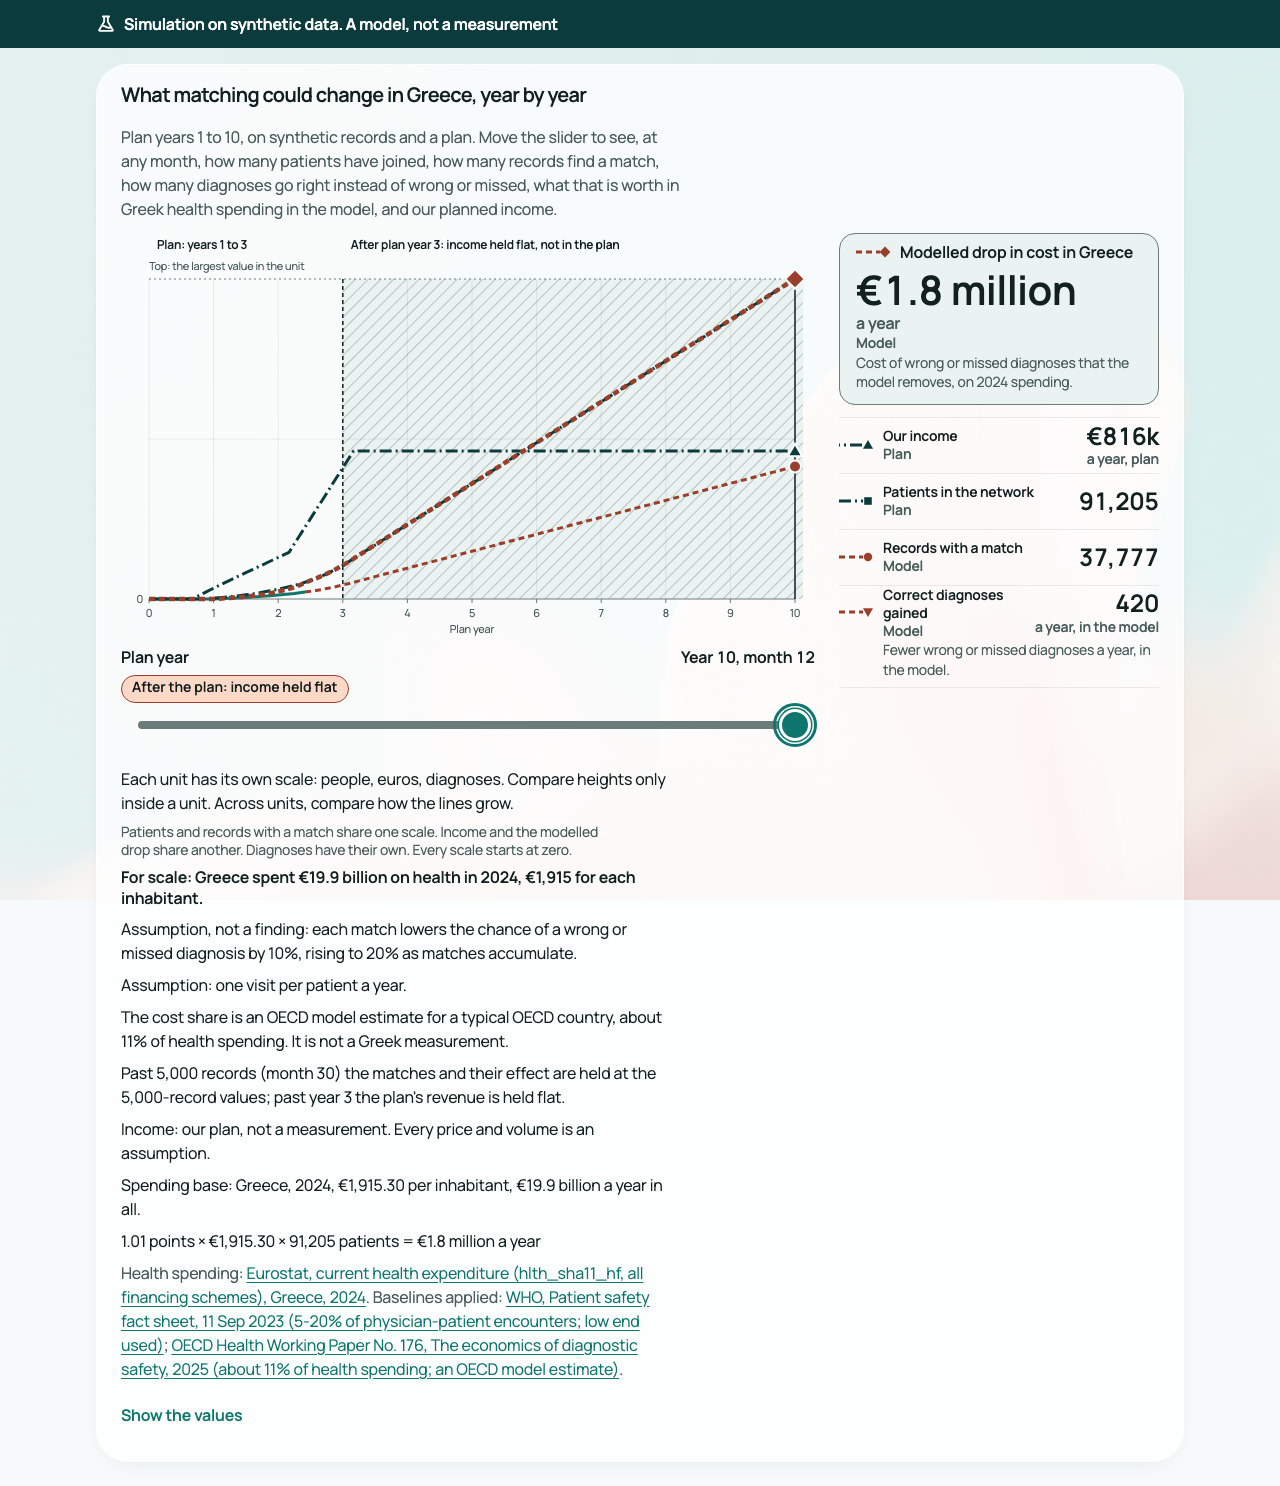
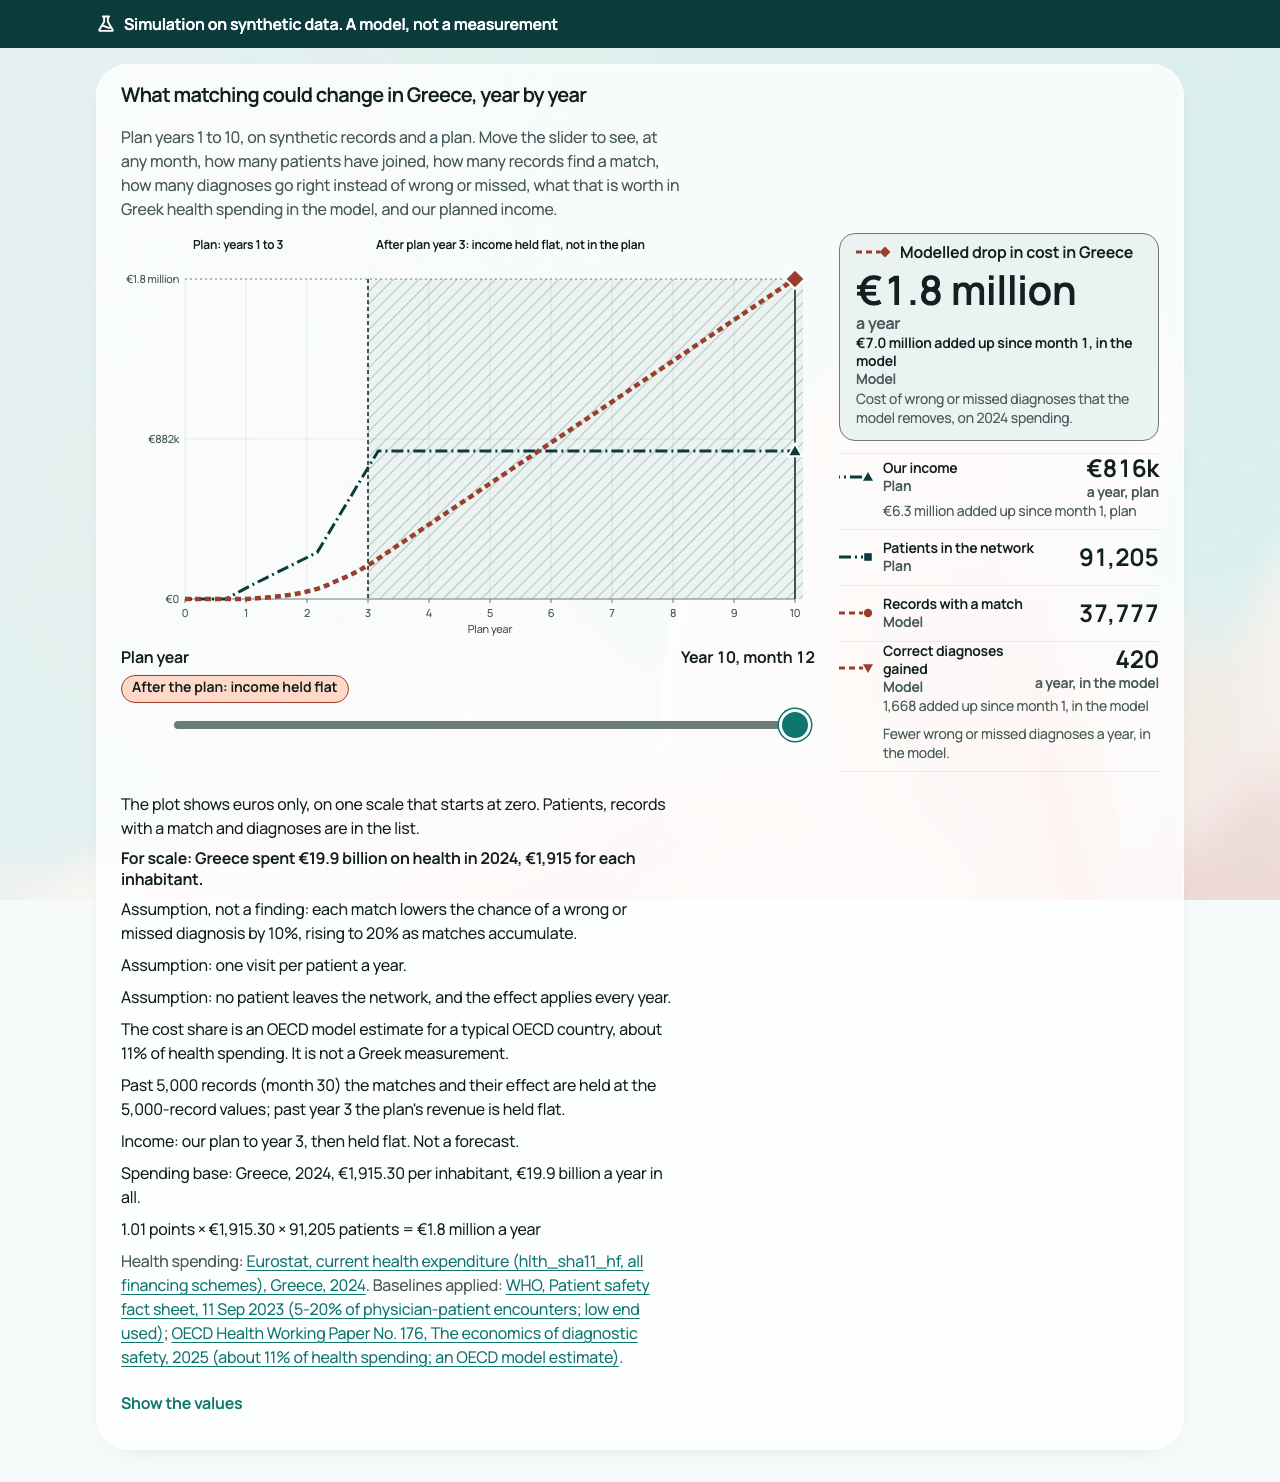
fix(sim): totals under the yearly figures, CEO seat's assumption lines, no bare "saved", euro plot (MIN-4749) [Lane B]
CTO fixes A, B, C, E from MIN-4744 comment 1a8014d4. Contributes to MIN-4749 (CTO re-check follows; Cron does D).
Specs touched and run: src/features/matches/simDiagram.test.ts (updated pin, new totals and copy tests).

diff --git a/src/features/matches/simDiagram.test.ts b/src/features/matches/simDiagram.test.ts
@@ -14,7 +14,7 @@ import { COPY } from './copy';
 import { SimDiagram } from './SimDiagram';
 import { SimulationUnavailable, SimulationView } from './Simulation';
 import {
-  DIAGRAM, LINES, afterPlan, kindAt, lineValues, monthInYear, parseSimulation, plotGeometry, plotted, polylinePoints, readoutAt, shareFromFormula, unitRefs, yearOf,
+  DIAGRAM, LINES, afterPlan, kindAt, lineValues, monthInYear, parseSimulation, plotGeometry, plotted, polylinePoints, readoutAt, totalsAt, shareFromFormula, unitRefs, yearOf,
   type TenYears,
 } from './tenYears';
 
@@ -142,7 +142,7 @@ describe('the plot: one scale per unit, from zero, fixed over all 120 months', (
     expect(a === b && b === c).toBe(false); // the card does change with the slider
   });
   it('the matches line is solid up to the last measured month and dashed (a model) after it', () => {
-    const html = render(model(), 120);
+    const html = render(model(), 120, { plot: 'five', basis: 'yearly', money: 'drop' });
     const poly = html.match(/<g data-testid="sim-line-matches">([\s\S]*?)<\/g>/)![1];
     const lines = poly.match(/<polyline[^>]*>/g)!;
     expect(lines).toHaveLength(2);
@@ -239,7 +239,7 @@ describe('the page: one diagram, nothing from the old page, the words and the la
     );
     expect(text(page, 'sim-visits')).toBe('Assumption: one visit per patient a year.');
     expect(text(page, 'sim-share')).toContain('about 11% of health spending');
-    expect(text(page, 'sim-income-plan')).toBe(COPY.gIncomePlan);
+    expect(text(page, 'sim-income-plan')).toBe(COPY.gIncomePlan({ planYears: 3 }));
     expect(text(page, 'sim-base')).toBe(`Spending base: Greece, 2024, €${T.saved_eur.per_inhabitant_eur.toLocaleString('en-US', { minimumFractionDigits: 2 })} per inhabitant, €${(T.saved_eur.total_mio_eur / 1000).toFixed(1)} billion a year in all.`);
     const sources = page.slice(page.indexOf('data-testid="sim-sources"'), page.indexOf('</p>', page.indexOf('data-testid="sim-sources"'))).replace(/<[^>]+>/g, ' ');
     for (const name of ['Eurostat', 'OECD', 'WHO']) expect(sources, name).toContain(name);
@@ -263,11 +263,50 @@ describe('the page: one diagram, nothing from the old page, the words and the la
   });
 });
 
+describe('fix A and B (CTO MIN-4744, CEO seat rulings 4, 12 and 15): the totals sit under the yearly figures; the two assumption lines', () => {
+  const m = model();
+  for (const month of [36, 120]) {
+    it(`month ${month}: money, diagnoses and income each show their running total from the file`, () => {
+      const html = render(m, month);
+      const i = month - 1;
+      expect(text(html, 'sim-total-money')).toBe(`${eur(T.saved_eur.total.values[i])} added up since month 1, in the model`);
+      expect(text(html, 'sim-total-dx')).toBe(`${dx(T.diagnoses.total.values[i])} added up since month 1, in the model`);
+      expect(text(html, 'sim-total-income')).toBe(`${eur(T.income_eur.total.values[i])} added up since month 1, plan`);
+      // the yearly figures are still the headline values
+      expect(text(html, 'sim-value-money')).toBe(eur(T.saved_eur.yearly.values[i]));
+      expect(totalsAt(m, month).income).toBe(T.income_eur.total.values[i]);
+    });
+  }
+  it('year 10 reads 1,668, €7.0 million and €6.3 million (the CTO\'s figures)', () => {
+    const html = render(m, 120);
+    expect(text(html, 'sim-total-dx')).toContain('1,668');
+    expect(text(html, 'sim-total-money')).toContain('€7.0 million');
+    expect(text(html, 'sim-total-income')).toContain('€6.3 million');
+  });
+  it('the values table carries the three total columns, with the file values at year 10', () => {
+    const html = render(m, 120);
+    for (const h of ['Diagnoses added up', 'Modelled drop added up', 'Income added up']) expect(html).toContain(`<th>${h}</th>`);
+    const row = html.slice(html.indexOf('data-testid="sim-values-row-10"'));
+    expect(row).toContain(`€${grouped(T.saved_eur.total.values[119])}`);
+    expect(row).toContain(`€${grouped(T.income_eur.total.values[119])}`);
+  });
+  it('the total basis does not repeat the totals line (the readout is already the total)', () => {
+    expect(render(m, 120, { plot: 'five', basis: 'total', money: 'drop' })).not.toContain('sim-total-money');
+  });
+  it('B: the income line and the stay assumption are the CEO seat\'s words, visible without a tap', () => {
+    const html = render(m, 120);
+    expect(text(html, 'sim-income-plan')).toBe('Income: our plan to year 3, then held flat. Not a forecast.');
+    expect(text(html, 'sim-stay')).toBe('Assumption: no patient leaves the network, and the effect applies every year.');
+    expect(html.replace(/<[^>]+>/g, ' ')).not.toMatch(/Every price and volume/);
+  });
+});
+
 describe('the three open rulings are constants and each one changes what it says it changes', () => {
   const m = model();
-  it('default: five lines, a year at network size, the modelled-drop wording', () => {
-    expect(DIAGRAM).toEqual({ plot: 'five', basis: 'yearly', money: 'drop' });
+  it('default: the euro axis (CTO ruling MIN-4744), a year at network size, the modelled-drop wording', () => {
+    expect(DIAGRAM).toEqual({ plot: 'euro', basis: 'yearly', money: 'drop' });
     expect(plotted('five')).toHaveLength(5);
+    expect(plotted('euro')).toHaveLength(2);
     expect(text(render(m, 120), 'sim-title')).toBe('What matching could change in Greece, year by year');
     expect(render(m, 120)).toContain('Modelled drop in cost in Greece');
   });
@@ -292,7 +331,11 @@ describe('the three open rulings are constants and each one changes what it says
   it('money "saved": the founder\'s word in the title, the caption and the head, and nowhere in the default', () => {
     const saved = render(m, 120, { plot: 'five', basis: 'yearly', money: 'saved' });
     expect(text(saved, 'sim-title')).toBe('What matching could save Greece, year by year');
-    expect(saved).toContain('Money saved in Greece');
+    expect(saved).toContain('Money that could be saved in Greece, in the model');
+    // Ruling 3: "saved" never stands bare on a head, a column or a total.
+    expect(saved).toContain('Could be saved a year, in the model');
+    expect(saved).not.toMatch(/Money saved in Greece|>Saved a year<|>Saved in total<|saved in total/i);
+    expect(text(saved, 'sim-total-money')).toBe(`${eur(T.saved_eur.total.values[119])} added up since month 1, in the model`);
     expect(render(m, 120).replace(/<[^>]+>/g, ' ')).not.toMatch(/\bsaved?\b|\bsaves\b|\bsavings\b/i);
   });
 });

diff --git a/src/features/matches/SimDiagram.tsx b/src/features/matches/SimDiagram.tsx
@@ -9,7 +9,7 @@ import { useLayoutEffect, useMemo, useRef, useState } from 'react';
 import { COPY } from './copy';
 import {
   DASH, DIAGRAM, LINES, afterPlan, clampMonth, formatBillions, formatCount, formatDx, formatEuro, formatEuroCents, formatEuroWhole, formatPct, formatPerInhabitant,
-  formatPoints, kindAt, lineValues, monthInYear, plotGeometry, plotted, polylinePoints, readoutAt, unitRefs, yearOf,
+  formatPoints, kindAt, lineValues, monthInYear, plotGeometry, plotted, polylinePoints, readoutAt, totalsAt, unitRefs, yearOf,
   type Basis, type Geometry, type Kind, type LineDef, type LineId, type MoneyWording, type PlotMode, type Shape, type TenYears,
 } from './tenYears';
 
@@ -123,6 +123,8 @@ export function SimDiagram({ model, initialMonth, config = DIAGRAM }: { model: T
   const staticPlot = useMemo(() => <Plot model={model} g={g} basis={basis} mode={plot} />, [model, g, basis, plot]);
 
   const r = readoutAt(model, basis, month);
+  const tot = totalsAt(model, month);
+  const showTotals = basis === 'yearly';
   const year = yearOf(month), inYear = monthInYear(month);
   const after = afterPlan(model, month);
   const cx = g.x(month);
@@ -159,6 +161,7 @@ export function SimDiagram({ model, initialMonth, config = DIAGRAM }: { model: T
             <p className="hv">
               <span data-testid="sim-value-money">{text.money}</span> <small>{suf.money}</small>
             </p>
+            {showTotals && <p className="ht" data-testid="sim-total-money">{COPY.gTotal.money({ value: formatEuro(tot.money), first: 1 })}</p>}
             <p className="hk">{COPY.gTag[kinds.money]}</p>
             <p className="hh">{COPY.gHelp.money({ year: model.spendYear })}</p>
           </div>
@@ -206,6 +209,9 @@ export function SimDiagram({ model, initialMonth, config = DIAGRAM }: { model: T
                   <span data-testid={`sim-value-${l.id}`}>{text[l.id]}</span>
                   {l.id === 'income' || l.id === 'dx' ? <small>{suf[l.id]}</small> : null}
                 </span>
+                {showTotals && (l.id === 'dx' || l.id === 'income') && (
+                  <p className="h ht" data-testid={`sim-total-${l.id}`}>{COPY.gTotal[l.id]({ value: l.id === 'dx' ? formatDx(tot.dx) : formatEuro(tot.income), first: 1 })}</p>
+                )}
                 {l.id === 'dx' && <p className="h">{COPY.gHelp.dx[basis]}</p>}
               </li>
             ))}
@@ -224,9 +230,10 @@ export function SimDiagram({ model, initialMonth, config = DIAGRAM }: { model: T
         <p className="fact" data-testid="sim-fact">{COPY.gFact(spend)}</p>
         <p data-testid="sim-assumption">{COPY.simAssumption({ start: formatPct(model.assumption.start), ceiling: formatPct(model.assumption.ceiling) })}</p>
         <p data-testid="sim-visits">{COPY.gAssumeVisits}</p>
+        <p data-testid="sim-stay">{COPY.gAssumeStay}</p>
         {model.costShare !== undefined && <p data-testid="sim-share">{COPY.gAssumeShare({ share: formatPct(model.costShare) })}</p>}
         <p data-testid="sim-plateau">{COPY.gPlateau({ records: formatCount(model.plateau.records), month: model.plateau.fromMonth, planYears: model.planYears })}</p>
-        <p data-testid="sim-income-plan">{COPY.gIncomePlan}</p>
+        <p data-testid="sim-income-plan">{COPY.gIncomePlan({ planYears: model.planYears })}</p>
         <p data-testid="sim-base">{COPY.gBase({ geography: model.geography, year: model.spendYear, perInhabitant: formatEuroCents(model.perInhabitantEur), total: formatBillions(model.spendTotalMio) })}</p>
         <p className="ff" data-testid="sim-formula">{formula}</p>
         <p className="m" data-testid="sim-sources">
@@ -251,16 +258,19 @@ export function SimDiagram({ model, initialMonth, config = DIAGRAM }: { model: T
               <tr>
                 <th>{COPY.gColYear}</th><th>{COPY.gColPatients}</th><th>{COPY.gColMatches}</th><th>{COPY.gColDx[basis]}</th>
                 <th>{COPY.gColMoney[money][basis]}</th><th>{COPY.gColIncome[basis]}</th>
+                {showTotals && <><th>{COPY.gColDxTotal}</th><th>{COPY.gColMoneyTotal}</th><th>{COPY.gColIncomeTotal}</th></>}
               </tr>
             </thead>
             <tbody>
               {yearEnds.map((m) => {
                 const t = readoutAt(model, basis, m);
+                const tt = totalsAt(model, m);
                 return (
                   <tr key={m} data-testid={`sim-values-row-${yearOf(m)}`}>
                     <td>{yearOf(m)}{afterPlan(model, m) ? ` ${COPY.gTableAfter}` : ''}</td>
                     <td>{formatCount(t.patients)}</td><td>{formatCount(t.matches)}</td><td>{formatDx(t.dx)}</td>
                     <td>{formatEuroWhole(t.money)}</td><td>{formatEuroWhole(t.income)}</td>
+                    {showTotals && <><td>{formatDx(tt.dx)}</td><td>{formatEuroWhole(tt.money)}</td><td>{formatEuroWhole(tt.income)}</td></>}
                   </tr>
                 );
               })}

diff --git a/src/features/matches/copy.ts b/src/features/matches/copy.ts
@@ -56,7 +56,7 @@ export const COPY = {
     patients: 'Patients in the network',
     matches: 'Records with a match',
     dx: 'Correct diagnoses gained',
-    money: { drop: 'Modelled drop in cost in Greece', saved: 'Money saved in Greece' },
+    money: { drop: 'Modelled drop in cost in Greece', saved: 'Money that could be saved in Greece, in the model' },
     income: 'Our income',
   },
   gTag: { plan: 'Plan', model: 'Model', computed: 'Computed on synthetic records' },
@@ -88,7 +88,15 @@ export const COPY = {
   // The CTO's one line under the diagram (MIN-4744 section 1), word for word, with the numbers from the file.
   gPlateau: (a: { records: string; month: number; planYears: number }) =>
     `Past ${a.records} records (month ${a.month}) the matches and their effect are held at the ${a.records}-record values; past year ${a.planYears} the plan's revenue is held flat.`,
-  gIncomePlan: 'Income: our plan, not a measurement. Every price and volume is an assumption.',
+  // The CEO seat's strings (MIN-4746 comment 88b0c07c, conditions 12 and 15), word for word.
+  gIncomePlan: (a: { planYears: number }) => `Income: our plan to year ${a.planYears}, then held flat. Not a forecast.`,
+  gAssumeStay: 'Assumption: no patient leaves the network, and the effect applies every year.',
+  // The running totals under the yearly figures (CEO ruling 4, CTO fix A). Money keeps the drop wording whatever DIAGRAM.money is: "saved" is never put on a total.
+  gTotal: {
+    money: (a: { value: string; first: number }) => `${a.value} added up since month ${a.first}, in the model`,
+    dx: (a: { value: string; first: number }) => `${a.value} added up since month ${a.first}, in the model`,
+    income: (a: { value: string; first: number }) => `${a.value} added up since month ${a.first}, plan`,
+  },
   gBase: (a: { geography: string; year: number; perInhabitant: string; total: string }) =>
     `Spending base: ${a.geography}, ${a.year}, ${a.perInhabitant} per inhabitant, ${a.total} a year in all.`,
   gFormula: (a: { points: string; perInhabitant: string; patients: string; amount: string }) =>
@@ -101,8 +109,11 @@ export const COPY = {
   gColPatients: 'Patients',
   gColMatches: 'With a match',
   gColDx: { yearly: 'Diagnoses a year', total: 'Diagnoses in total' },
-  gColMoney: { drop: { yearly: 'Modelled drop a year', total: 'Modelled drop in total' }, saved: { yearly: 'Saved a year', total: 'Saved in total' } },
+  gColMoney: { drop: { yearly: 'Modelled drop a year', total: 'Modelled drop in total' }, saved: { yearly: 'Could be saved a year, in the model', total: 'Modelled drop in total' } },
   gColIncome: { yearly: 'Income a year', total: 'Income in total' },
+  gColDxTotal: 'Diagnoses added up',
+  gColMoneyTotal: 'Modelled drop added up',
+  gColIncomeTotal: 'Income added up',
   gTableAfter: '(income held flat)',
   gDesc: (a: { year: number; month: number; patients: string; matches: string; dx: string; moneyHead: string; money: string; income: string; per: string }) =>
     `One diagram, plan year ${a.year}, month ${a.month}, synthetic model. Patients: ${a.patients}. Records with a match: ${a.matches}. Correct diagnoses gained: ${a.dx} ${a.per}, in the model. ${a.moneyHead}: ${a.money} ${a.per}. Our income: ${a.income} ${a.per}, plan. A model and a plan, not a measurement.`,

diff --git a/src/features/matches/tenYears.ts b/src/features/matches/tenYears.ts
@@ -19,7 +19,7 @@ export type MoneyWording = 'drop' | 'saved';
  *  - `basis`: 'yearly' is "a year at that month's network size"; 'total' is the running total since month 1. One basis for all three flows.
  *  - `money`: 'drop' is "Modelled drop in cost in Greece" (the standing rule); 'saved' is the founder's word.
  */
-export const DIAGRAM: { plot: PlotMode; basis: Basis; money: MoneyWording } = { plot: 'five', basis: 'yearly', money: 'drop' };
+export const DIAGRAM: { plot: PlotMode; basis: Basis; money: MoneyWording } = { plot: 'euro', basis: 'yearly', money: 'drop' };
 
 export type Kind = 'plan' | 'model' | 'computed';
 export type LineId = 'money' | 'income' | 'patients' | 'matches' | 'dx';
@@ -197,6 +197,12 @@ export function readoutAt(m: TenYears, basis: Basis, month: number): Readout {
   const v = lineValues(m, basis);
   const i = clampMonth(month, m.months) - 1;
   return { money: v.money[i], income: v.income[i], patients: v.patients[i], matches: v.matches[i], dx: v.dx[i] };
+}
+
+/** The running totals since month 1, read from the file's `total` blocks (CEO ruling 4). */
+export function totalsAt(m: TenYears, month: number): Readout {
+  const i = clampMonth(month, m.months) - 1;
+  return { money: m.money.total[i], income: m.income.total[i], patients: m.patients[i], matches: m.matches[i], dx: m.dx.total[i] };
 }
 
 // ---- the plot's geometry (spec A15 section 2) -----------------------------------------------------------------------------------

diff --git a/src/features/matches/matches.css b/src/features/matches/matches.css
@@ -57,11 +57,13 @@
 .dg-hero .hv small{font:var(--text-label);font-size:16px;color:var(--color-muted)}
 @media (min-width:900px){.dg-hero .hv small{display:block}}
 .dg-hero .hk{margin:0;font:var(--text-label);color:var(--color-muted)}
+.dg-hero .ht{margin:0;font:var(--text-label);color:var(--color-text);font-variant-numeric:tabular-nums}
 .dg-hero .hh{margin:2px 0 0;font:400 14px/1.35 var(--font);color:var(--color-muted)}
 .dg-rows{margin:0;padding:0;list-style:none;border-top:1px solid var(--color-border)}
 .dg-row{display:grid;grid-template-columns:36px minmax(0,1fr) auto;column-gap:var(--space-2);align-items:center;min-height:56px;border-bottom:1px solid var(--color-border)}
 .dg-row .n{display:block;font:var(--text-label);color:var(--color-text)}.dg-row .k{display:block;font:var(--text-label);color:var(--color-muted)}
 .dg-row .v{font:var(--text-h2);color:var(--color-text);white-space:nowrap;text-align:right;font-variant-numeric:tabular-nums}.dg-row .v small{display:block;font:var(--text-label);color:var(--color-muted)}
+.dg-row .ht{font-variant-numeric:tabular-nums}
 .dg-row .h{grid-column:2/4;margin:0 0 var(--space-2);font:400 14px/1.4 var(--font);color:var(--color-muted)}
 .dg-box{position:relative}.dg-box svg{display:block;overflow:visible}
 .dg-box svg text{font:400 11px var(--font);fill:var(--color-muted)}

diff --git a/docs/simulation-copy.md b/docs/simulation-copy.md
@@ -323,7 +323,7 @@ Source: Anna, MIN-4723 comment 9e14b7f0 (the `g*` table, column M unless marked)
 | `gSliderValue` | Year {year}, month {month} | CTO (aria-valuetext) and Pix; also the `<output>` text |
 | `gSliderAria` | Plan year, from {first} to {last}. The numbers below show that point in the plan. | Anna's text, "that year" became "that point in the plan". **Ren, confirm** |
 | `gHead.patients`, `.matches`, `.dx`, `.income` | Patients in the network, Records with a match, Correct diagnoses gained, Our income | Anna |
-| `gHead.money.drop` / `.saved` | Modelled drop in cost in Greece / Money saved in Greece | Anna; CEO seat picks |
+| `gHead.money.drop` / `.saved` | Modelled drop in cost in Greece / Money that could be saved in Greece, in the model | Anna; CEO seat picks. The `saved` head and column carry "in the model" (CTO fix C, ruling 3: "saved" is never bare) |
 | `gTag.*` | Plan, Model, Computed on synthetic records | Anna. Records with a match reads "Computed on synthetic records" up to `measured_until_month` and "Model" after it (CTO MIN-4744 section 1) |
 | `gSuffix.yearly.*` | a year, plan (income), a year, in the model (diagnoses), a year (money) | Anna |
 | `gSuffix.total.*`, `gHelp.dx.total`, `gCol*.total` | in total since the start, plan / in the model | **Ren, confirm**; used only if the CEO seat picks the running total (`DIAGRAM.basis = 'total'`) |
@@ -335,7 +335,13 @@ Source: Anna, MIN-4723 comment 9e14b7f0 (the `g*` table, column M unless marked)
 | `gScale`, `gScaleMore`, `gScaleTop` | the three sentences of 8.1 (`tlScale`, `tlScaleMore`, `tlScaleTop`), unchanged | Anna |
 | `gScaleEuro` | The plot shows euros only, on one scale that starts at zero. Patients, records with a match and diagnoses are in the list. | **Ren, confirm**; used only if the CTO picks the euro-only plot (`DIAGRAM.plot = 'euro'`) |
 | `gFact` | For scale: {geography} spent {total} on health in {year}, {perInhabitant} for each inhabitant. | Anna's recommended A; it replaces the EU-27 figure |
-| `gAssumeVisits`, `gIncomePlan`, `simAssumption` | the existing lines (6.3, `tlAssumeDx`, `tlIncomePlan`) | unchanged |
+| `gAssumeVisits`, `simAssumption` | the existing lines (6.3, `tlAssumeDx`) | unchanged |
+| `gIncomePlan` | Income: our plan to year {planYears}, then held flat. Not a forecast. | CEO seat, MIN-4746 comment 88b0c07c (condition 12); replaces "Income: our plan, not a measurement. Every price and volume is an assumption." Anna confirms after staging (MIN-4745) |
+| `gAssumeStay` (NEW) | Assumption: no patient leaves the network, and the effect applies every year. | CEO seat, same comment (condition 15); sits next to `gAssumeVisits`, visible without a tap |
+| `gTotal.money` / `.dx` | {value} added up since month {first}, in the model | CEO ruling 4, CTO fix A. Under the money, diagnoses figures; read from `ten_years.*.total.values`. Money keeps this wording when `DIAGRAM.money = 'saved'` ("saved" is never put on a total). Not shown when `DIAGRAM.basis = 'total'` |
+| `gTotal.income` | {value} added up since month {first}, plan | as above |
+| `gColDxTotal`, `gColMoneyTotal`, `gColIncomeTotal` | Diagnoses added up, Modelled drop added up, Income added up | CTO fix A: the three total columns of the values table |
+| `gColMoney.saved` | Could be saved a year, in the model / Modelled drop in total | CTO fix C; the bare "Saved a year" / "Saved in total" are gone |
 | `gAssumeShare` | The cost share is an OECD model estimate for a typical OECD country, about {share} of health spending. It is not a Greek measurement. | Anna. `{share}` is read from the file's formula for series 3 |
 | `gPlateau` | Past {records} records (month {month}) the matches and their effect are held at the {records}-record values; past year {planYears} the plan's revenue is held flat. | CTO, MIN-4744 section 1, word for word |
 | `gBase`, `gFormula` | Spending base: {geography}, {year}, {perInhabitant} per inhabitant, {total} a year in all. / {points} points × {perInhabitant} × {patients} patients = {amount} a year | Anna. The formula is always the yearly figure at the slider's month |
